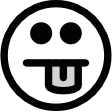
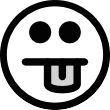
Fit smileys with new theme

diff --git a/chat/static/chat/scss/v2/style.scss b/chat/static/chat/scss/v2/style.scss
@@ -156,6 +156,28 @@ aside {
     &.visible {
         margin-right: 0;
     }
+
+    #panel-options {
+        .panel-option {
+            margin-top: 20px;
+            width: 100%;
+            padding: 3%;
+            padding-left: 40px;
+
+            .option-lbl {
+                display: inline-block;
+                float: left;
+                color: #767676;
+            }
+
+            .onoffswitch {
+                display: inline-block;
+                float: right;
+                zoom: 80%;
+            }
+        } 
+    }
+
     #menu-bottom {
         width: 100%;
         position: absolute;
@@ -183,7 +205,7 @@ aside {
 }
 
 #my-comptoirs {
-    margin-top: $header-size + 20px;
+    margin-top: 50px;
 
     h2 {
         font-size: 1.9em;
@@ -628,4 +650,6 @@ $bottom-size: 120px;
     }
 }
 
-
+img.smiley {
+    height: 1.4em;
+}
